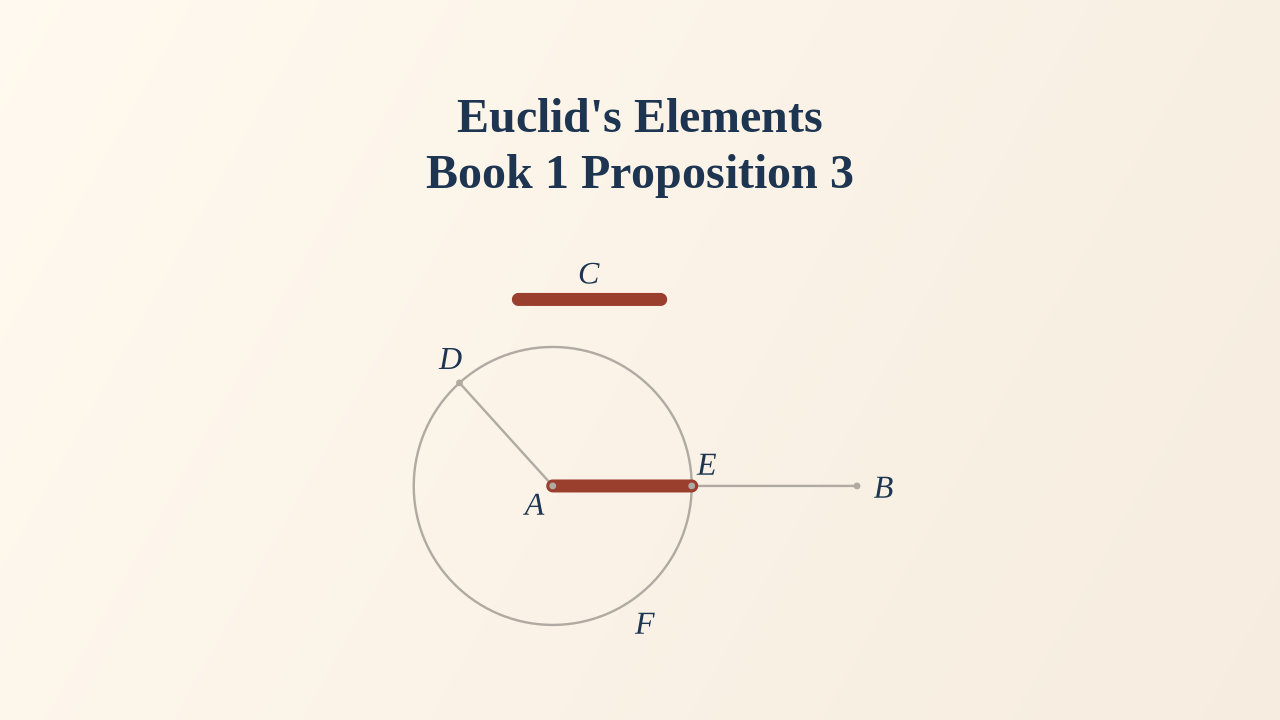
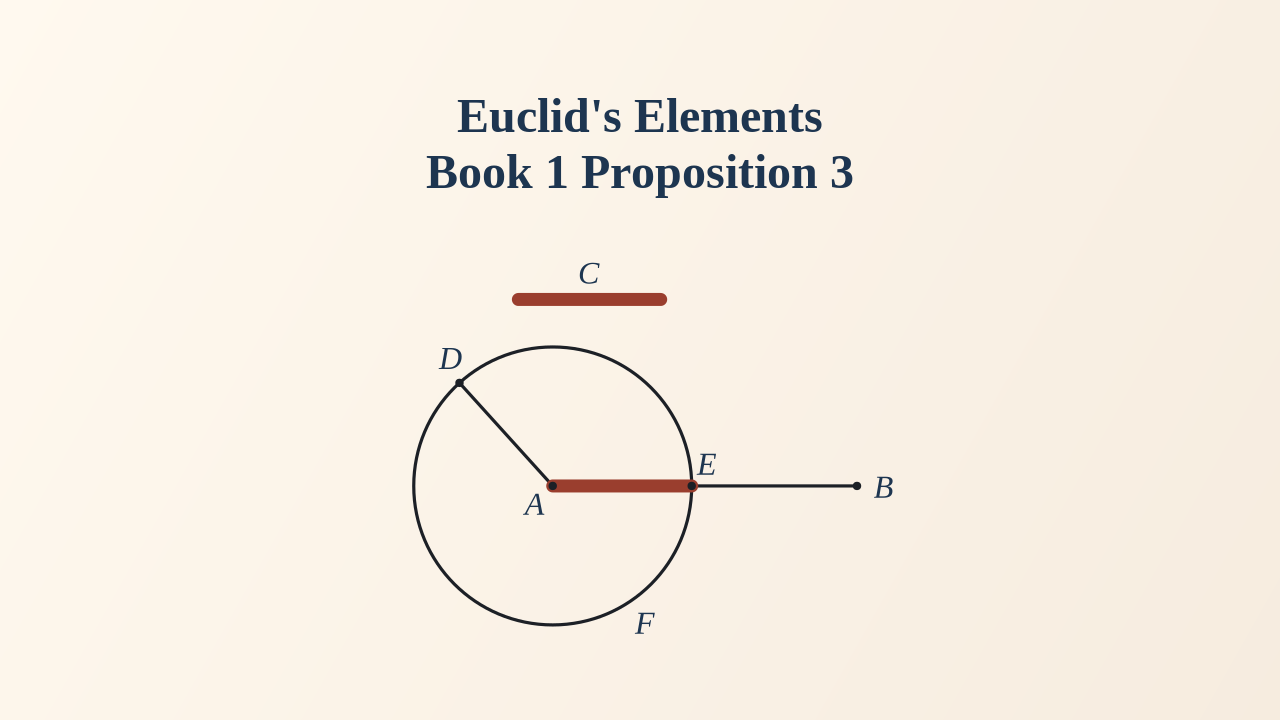
Keep the I.2 and I.3 construction ink at the I.1 weight. (#56)
Dimming every other line to push the brick subject made those plates look unfinished next to the first card. The named equals stay brick; labels stay navy.

diff --git a/scripts/youtube_book1_thumbs.py b/scripts/youtube_book1_thumbs.py
@@ -9,9 +9,11 @@ equal parallelograms, the constructed triangle — never a construction line
 and never an angle the proposition does not fill. A proposition about an
 angle or parallels gets no wash: a wash there would light the wrong region.
 A proposition about a line has no interior to wash. I.2 and I.3 light the
-equal lines the enunciation names. The wash gold is too close to the cream
-to read as a line, so those lines take a brick that sits with the navy type.
-Labels stay navy, the color every other card uses.
+equal lines the enunciation names, and leave the construction ink at the
+same weight as I.1. Dimming that ink to push the subject made the plate
+look unfinished next to the first card. The wash gold is too close to the
+cream to read as a line, so those lines take a brick that sits with the
+navy type. Labels stay navy, the color every other card uses.
 """
 
 from __future__ import annotations
@@ -36,7 +38,6 @@ GOLD = (212, 184, 122)
 BRICK = (154, 62, 46)
 INK = (28, 32, 38)
 WASH = (232, 214, 176)
-DIM = (176, 170, 162)
 LETTER_R = 0.82  # plate::LETTER_R, em of the letter type
 
 # Subject regions, vertex order around the boundary. Two regions: warm, then gold,
@@ -713,10 +714,9 @@ def render(n: int, scene: Scene, out: Path) -> None:
         if a not in scene.pts or b not in scene.pts:
             raise SystemExit(f"I.{n}: line {a}{b} missing")
     lit_ink = {(a, b) for a, b in lit_segs} | {(b, a) for a, b in lit_segs}
-    quiet = bool(lit_segs)
-    ink = rgb(DIM if quiet else INK)
-    cr.set_source_rgb(*ink)
-    cr.set_line_width(2.4 if quiet else 3.2)
+    # Construction stays the same ink as I.1. Only the named lines are lit.
+    cr.set_source_rgb(*rgb(INK))
+    cr.set_line_width(3.2)
     cr.set_line_cap(cairo.LINE_CAP_ROUND)
     for name, r in scene.circs:
         x, y = pt(name)
@@ -732,8 +732,8 @@ def render(n: int, scene: Scene, out: Path) -> None:
         cr.stroke()
     cr.restore()
 
-    cr.set_source_rgb(*ink)
-    cr.set_line_width(2.4 if quiet else 3.2)
+    cr.set_source_rgb(*rgb(INK))
+    cr.set_line_width(3.2)
     cr.set_line_cap(cairo.LINE_CAP_ROUND)
     cr.set_line_join(cairo.LINE_JOIN_ROUND)
     for a, b in scene.segs:
@@ -756,8 +756,8 @@ def render(n: int, scene: Scene, out: Path) -> None:
     cr.new_path()
     for p in scene.dot_pts:
         x, y = pt_of(p)
-        cr.set_source_rgb(*rgb(INK if not quiet else DIM))
-        cr.arc(x, y, 3.4, 0, math.tau)
+        cr.set_source_rgb(*rgb(INK))
+        cr.arc(x, y, 4.2, 0, math.tau)
         cr.fill()
 
     for name, (anchor, deg, r_em) in scene.labels.items():
